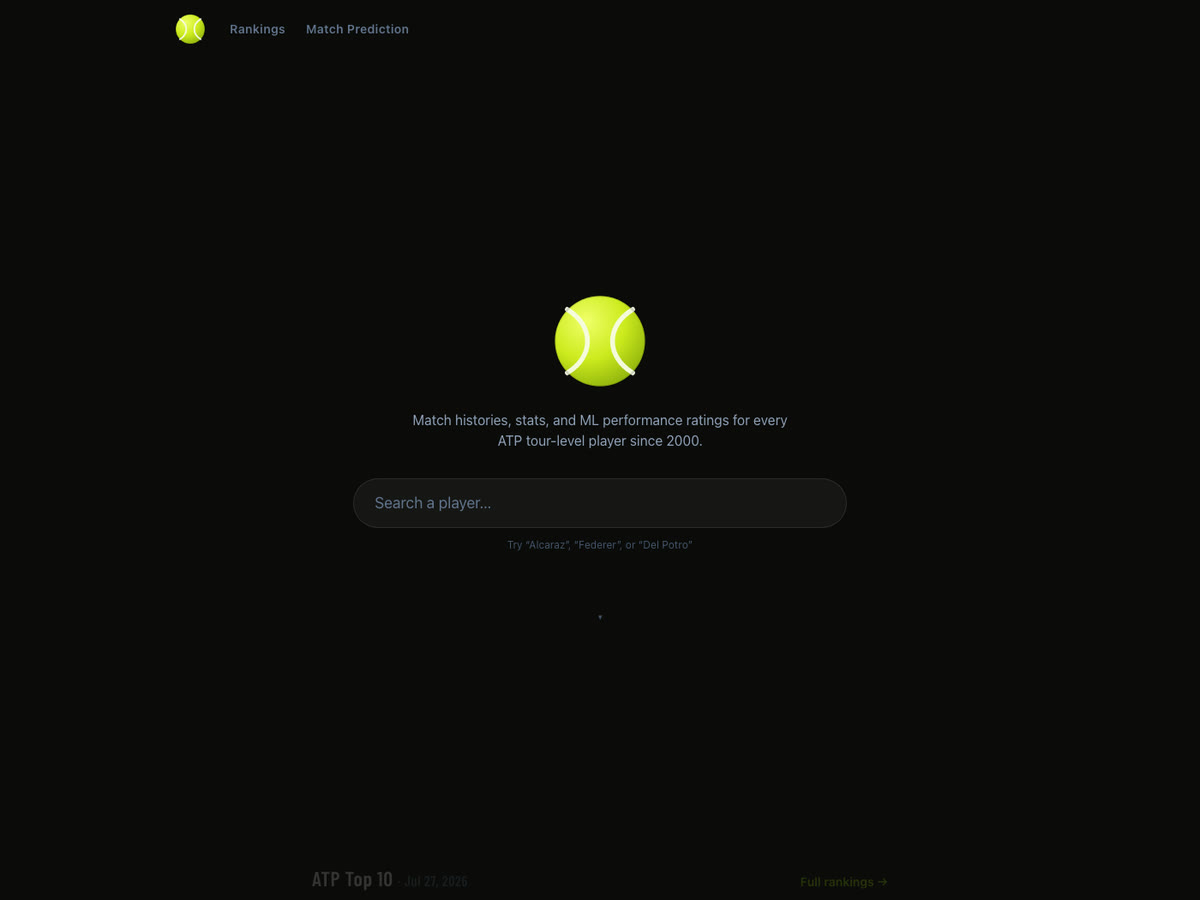
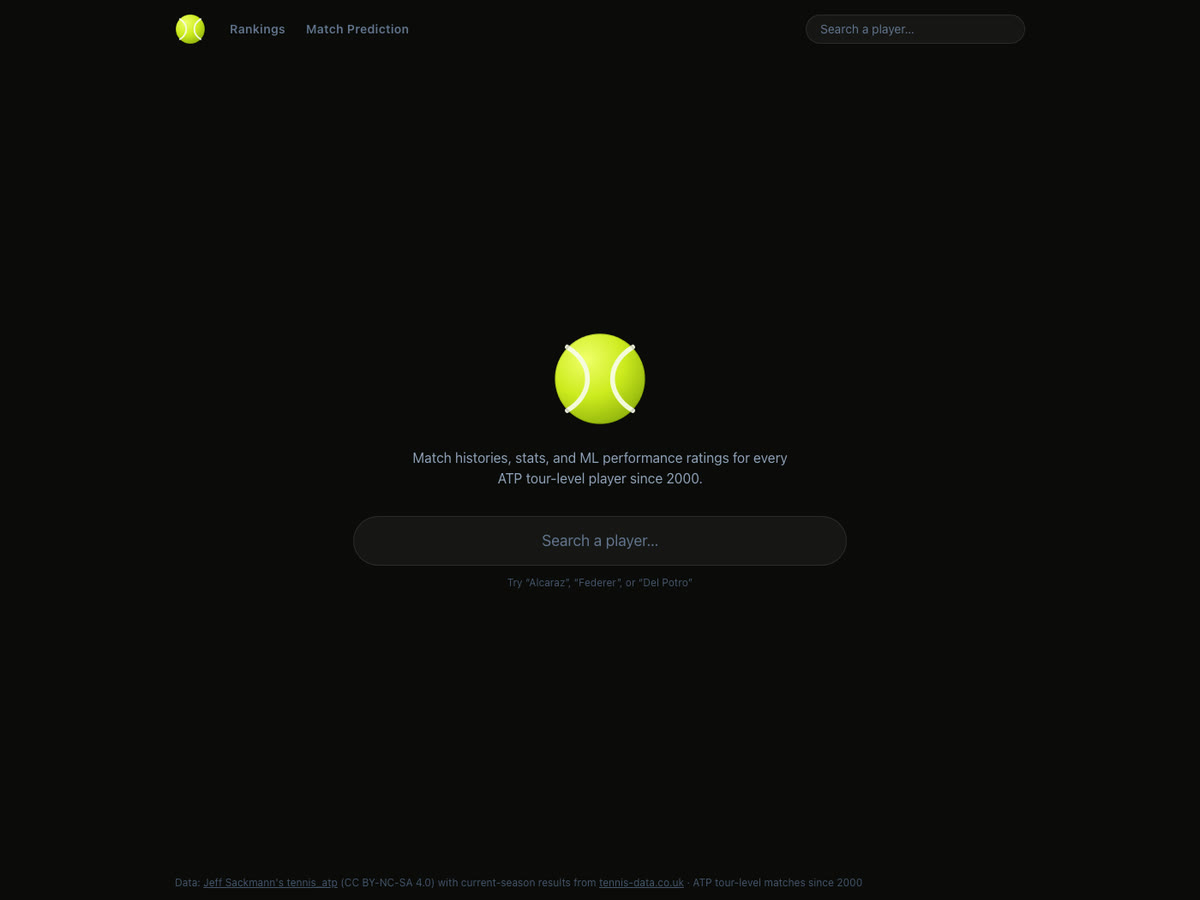
Update GameSetMatch to match the resume
The project was rebuilt on Postgres and Next.js and redeployed to Vercel;
the card still described the Cloudflare Workers/D1 + Hono version and
linked to the old workers.dev deployment. Description, tech chips and both
links now follow the resume, and the thumbnail is a fresh capture of the
Vercel build.

diff --git a/index.html b/index.html
@@ -45,14 +45,14 @@
 
     <ol class="projects">
       <li class="project">
-        <a class="project-shot" href="https://gamesetmatch.jihwantime.workers.dev" target="_blank" rel="noopener">
+        <a class="project-shot" href="https://gamesetmatch.vercel.app/" target="_blank" rel="noopener">
           <img src="assets/project-1.jpg" alt="GameSetMatch home page">
         </a>
         <div class="project-body">
-          <h3><a href="https://gamesetmatch.jihwantime.workers.dev" target="_blank" rel="noopener">GameSetMatch</a></h3>
-          <p>A tennis match history web app running on Cloudflare Workers and D1, with a Hono API and a React front end. A Python ETL pipeline ingests 80K+ matches from a public archive, feeding a Scikit-Learn performance-rating model and a surface-aware Elo match predictor validated at 70% accuracy.</p>
+          <h3><a href="https://gamesetmatch.vercel.app/" target="_blank" rel="noopener">GameSetMatch</a></h3>
+          <p>A tennis match history web app built with TypeScript on Postgres, with a Next.js and React front end. A Python ETL pipeline ingests 80K+ matches from a public archive into the Postgres database, feeding a Scikit-Learn performance-rating model and a surface-aware Elo match predictor validated at 70% accuracy.</p>
           <ul class="stack">
-            <li>TypeScript</li><li>React</li><li>Cloudflare Workers/D1</li><li>Hono</li><li>Python</li><li>Scikit-Learn</li>
+            <li>TypeScript</li><li>React</li><li>Postgres</li><li>Next.js</li><li>Python</li><li>Scikit-Learn</li>
           </ul>
         </div>
       </li>
